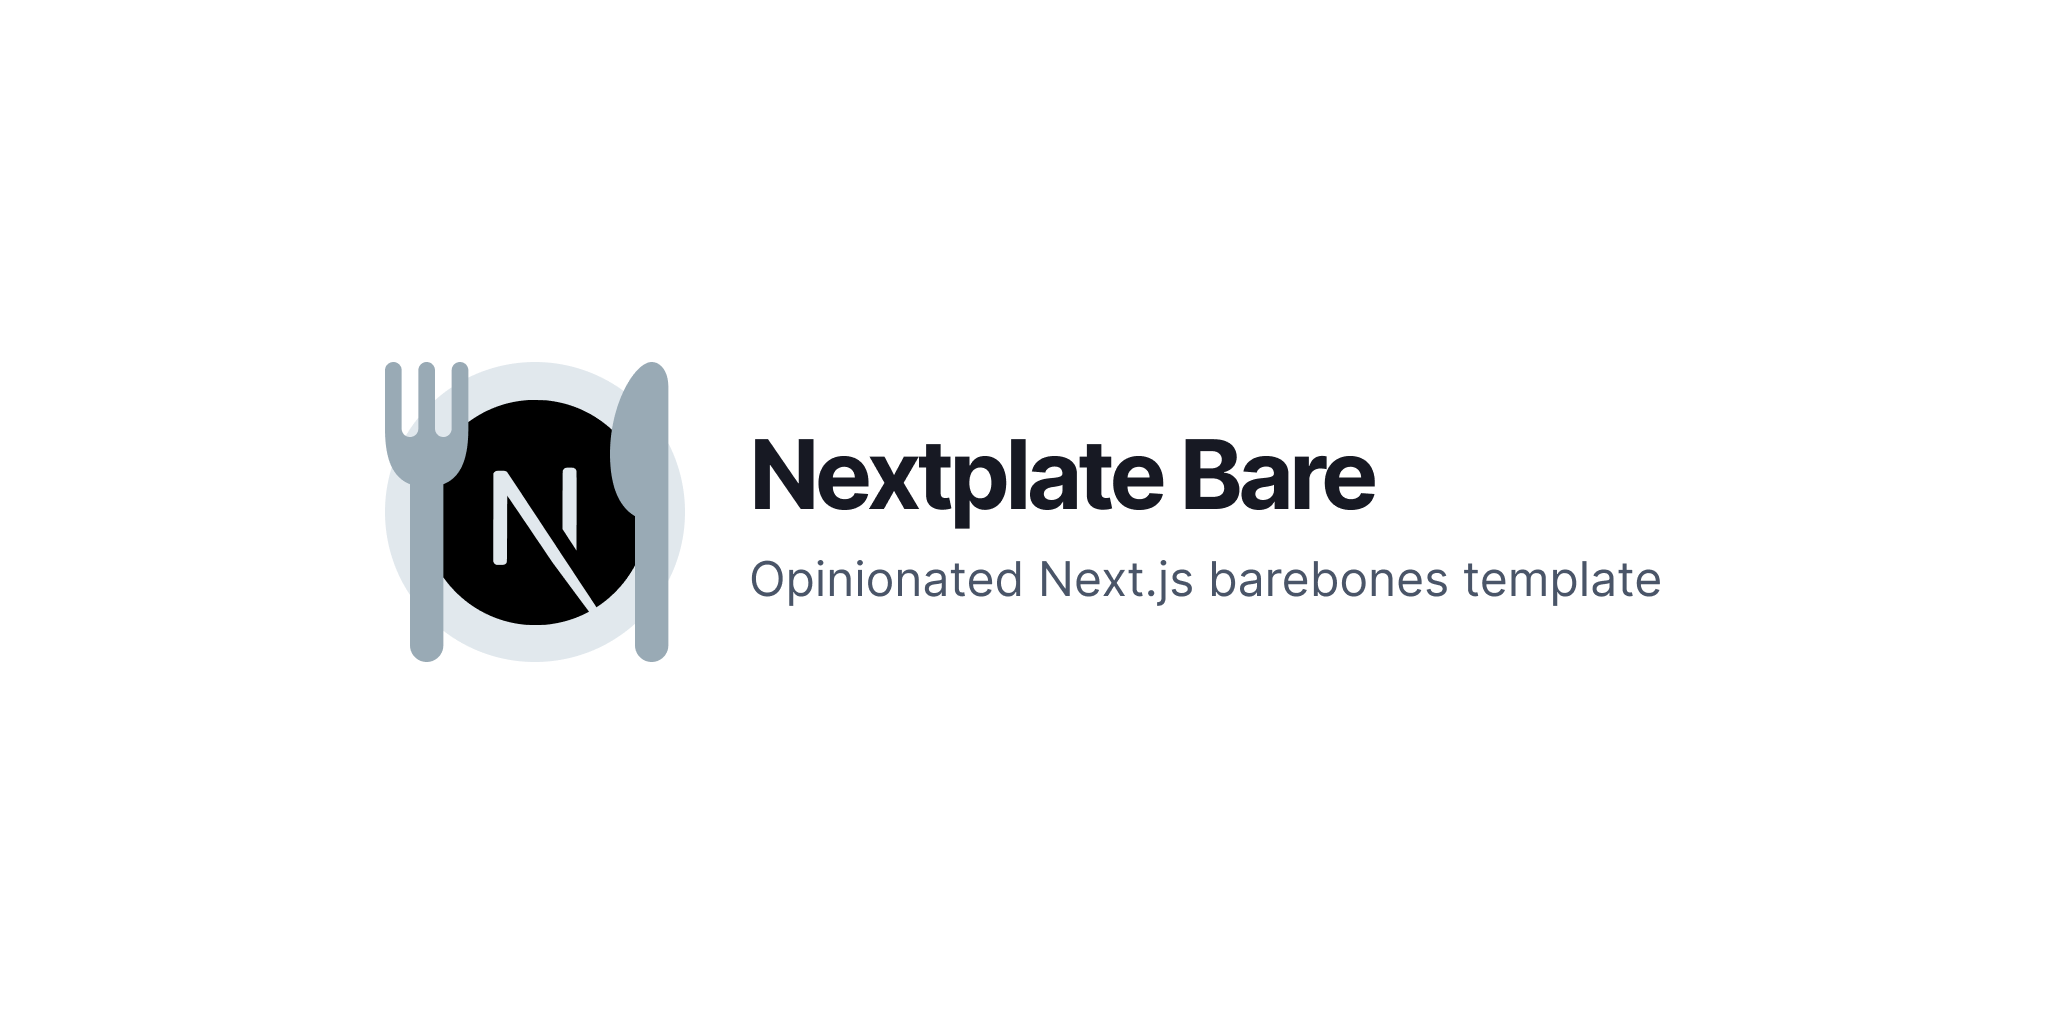
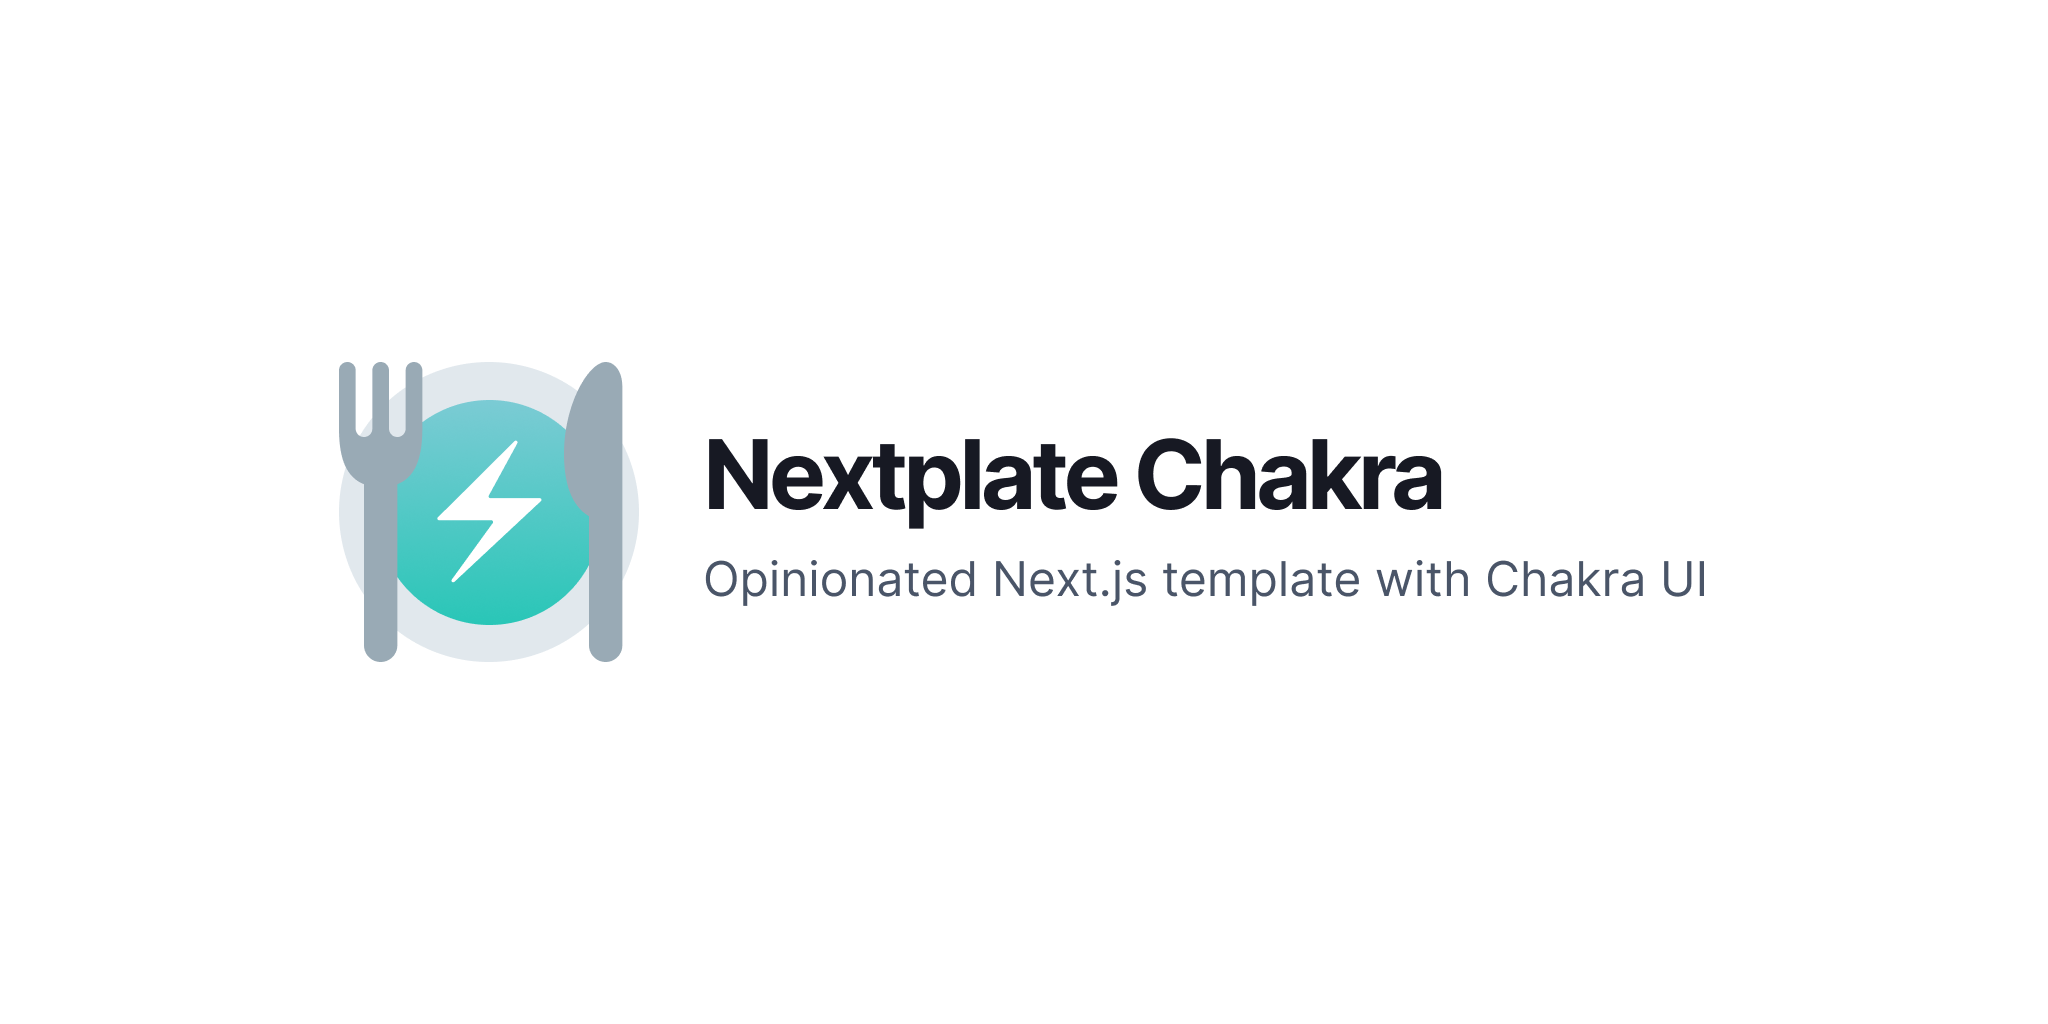
chore: bare -> chakra

Changed region(s): [[0.1562, 0.3438, 0.8438, 0.6562]]

diff --git a/pages/_opengraph.tsx b/pages/_opengraph.tsx
@@ -16,8 +16,8 @@ import { NextSeo } from "next-seo";
 const OpenGraphPage: NextPage = () => {
   const router = useRouter();
 
-  const title = (router.query.title as string) ?? "Nextplate Bare Example Page";
-  const description = (router.query.description as string) ?? "Opinionated Next.js barebones template";
+  const title = (router.query.title as string) ?? "Nextplate Chakra Example Page";
+  const description = (router.query.description as string) ?? "Opinionated Next.js template with Chakra UI";
 
   return (
     <main className="standard card">

diff --git a/config/site.js b/config/site.js
@@ -2,12 +2,12 @@
 
 const siteConfig = {
   defaultTitle: "Nextplate",
-  description: `Opinionated Next.js barebones template`,
-  title: "Nextplate Bare",
+  description: `Opinionated Next.js template with Chakra UI`,
+  title: "Nextplate Chakra",
   titleSeparator: " · ",
 
-  domain: `bare.nextplate.dev`,
-  siteUrl: `https://bare.nextplate.dev`,
+  domain: `chakra.nextplate.dev`,
+  siteUrl: `https://chakra.nextplate.dev`,
   twitterUsername: "@koding_ninja",
 
   socials: {

diff --git a/README.md b/README.md
@@ -2,7 +2,7 @@
 
 <div align="center">
 
-![nextplate-bare](./public/social.png)
+![nextplate-chakra](./public/social.png)
 
 [Read the Nextplate docs on how to use this boilerplate (WIP)](#)
 
@@ -25,15 +25,15 @@
 
 ### Using degit
 
-Create your new project using [degit](https://github.com/Rich-Harris/degit). This command will create a Nextplate Bare project in a new `my-awesome-project` directory:
+Create your new project using [degit](https://github.com/Rich-Harris/degit). This command will create a Nextplate Chakra project in a new `my-awesome-project` directory:
 
 ```sh
-npx degit kodingdotninja/nextplate-bare my-awesome-project
+npx degit kodingdotninja/nextplate-chakra my-awesome-project
 ```
 
 ### Using GitHub templates
 
-Click "Use This Template" on the project repository page, or [click here to create a new GitHub repository using this template](https://github.com/kodingdotninja/nextplate-bare/generate).
+Click "Use This Template" on the project repository page, or [click here to create a new GitHub repository using this template](https://github.com/kodingdotninja/nextplate-chakra/generate).
 
 ## Suggestions and/or questions
 
